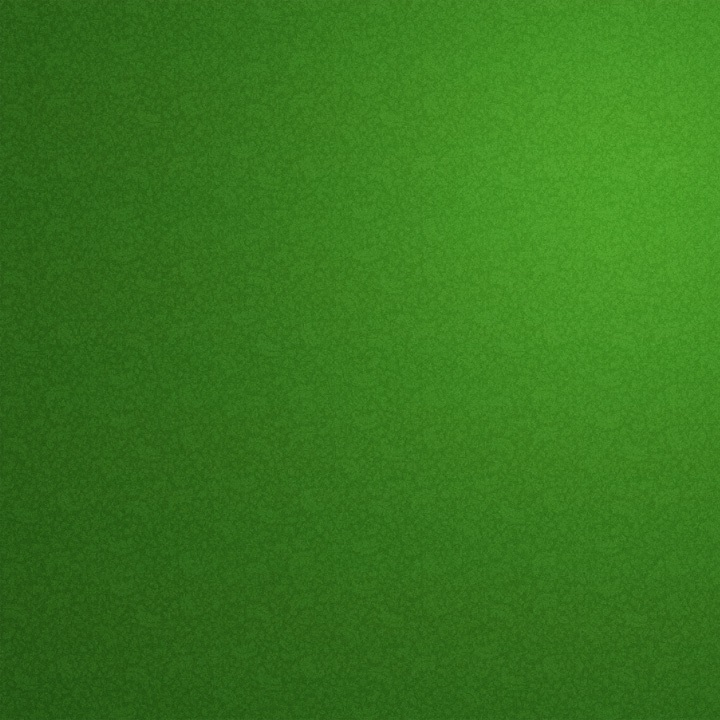
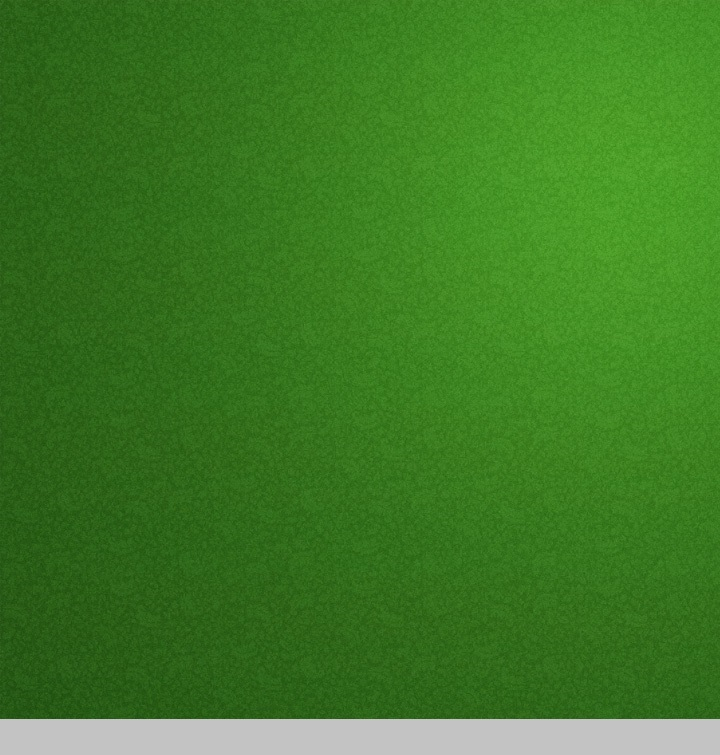
Board size extended from bottom

Changed region(s): [[0.0, 0.9472, 1.0, 1.0]]

diff --git a/src/main/java/pl/nogacz/snake/Snake.java b/src/main/java/pl/nogacz/snake/Snake.java
@@ -20,7 +20,7 @@ public class Snake extends Application {
 
     @Override
     public void start(Stage primaryStage) {
-        Scene scene = new Scene(design.getGridPane(), 715, 715, Color.BLACK);
+        Scene scene = new Scene(design.getGridPane(), 715, 750, Color.BLACK);
         scene.setOnKeyReleased(event -> board.readKeyboard(event));
 
         primaryStage.setTitle("JavaSnake");
